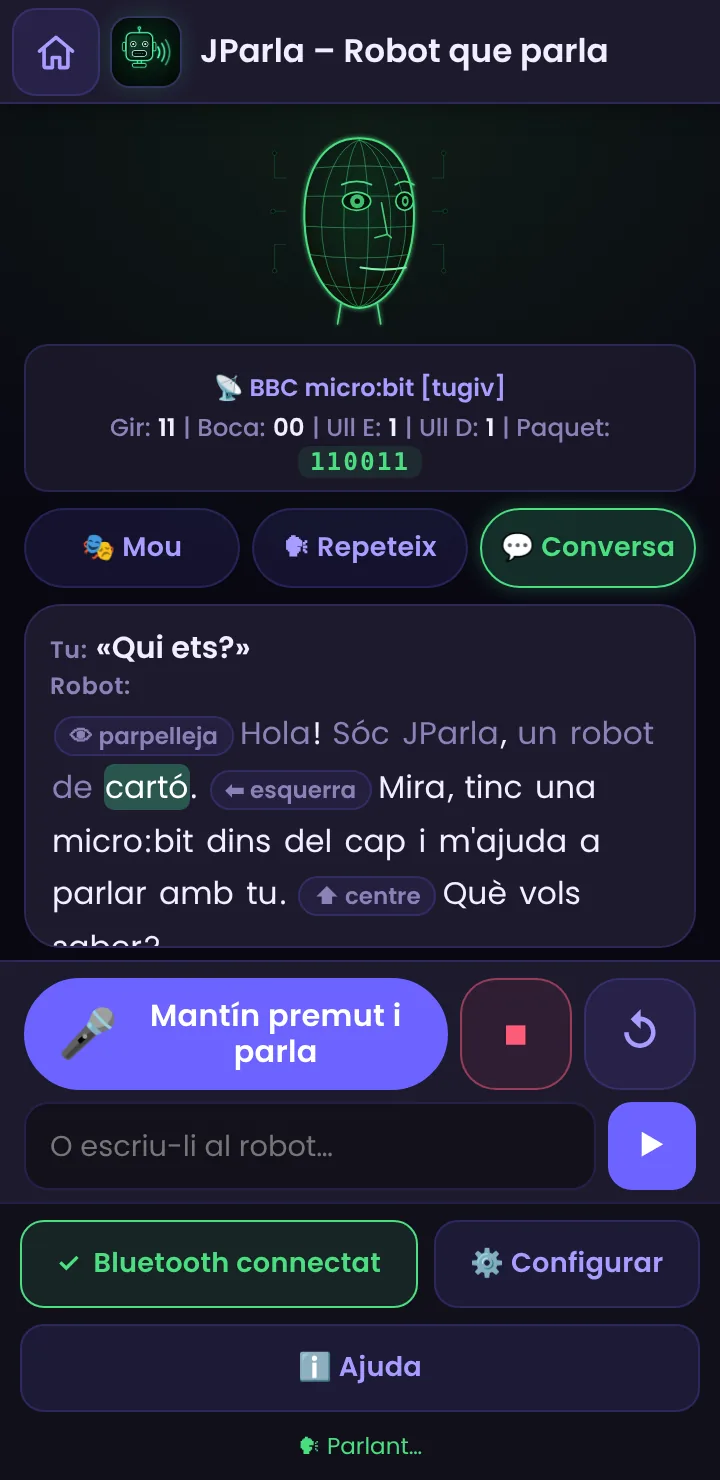
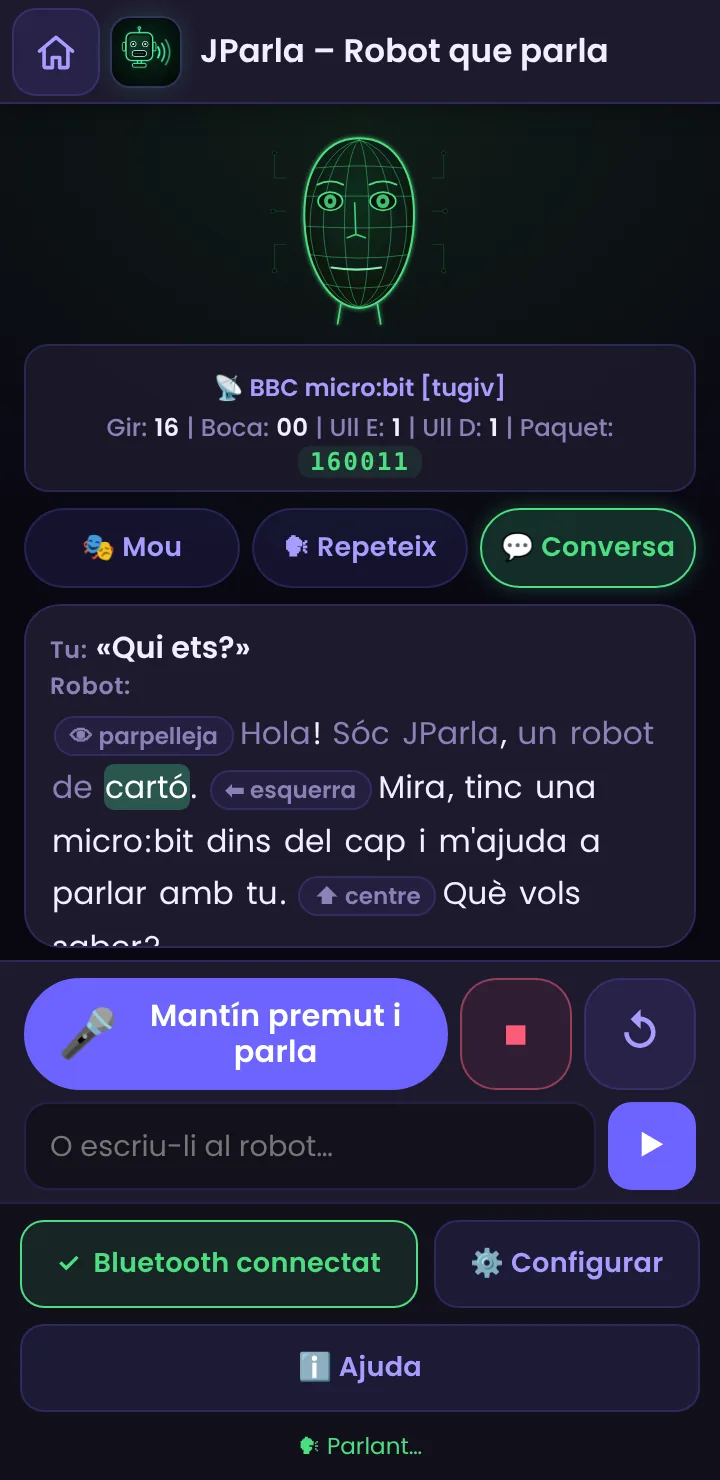
Mejora JPARLA

Changed region(s): [[0.1528, 0.2797, 0.8556, 0.3108], [0.4278, 0.0932, 0.5806, 0.1865]]

diff --git a/jparla/guia.html b/jparla/guia.html
@@ -102,7 +102,7 @@
 <div class="ok"><b>✅ Què s'envia.</b> Només el <b>text</b> de l'ordre, mai l'àudio. La IA només suggereix passos de moviment; l'app els <b>valida i limita</b> (temps i valors) abans de moure res. Sense Internet, només funcionen les regles.</div>
 </section>
 <section class="step" id="paquet"><div class="step-head"><span class="n">9</span><h2>Del que dius al missatge que s'envia</h2></div>
-<p>Cada pas es transforma en un text de <b>6 dígits</b>, igual que a JFace. Per exemple, «obri la boca» a mitges: <span class="msg">150011</span> → <span class="msg">151011</span>. Si dius «mira a l'esquerra, obri la boca i parpelleja», la micro:bit rep una successió de missatges, un darrere l'altre:</p><div class="msgsplit"><div><b style="background:#5C2D91">22</b>gir del cap</div><div><b style="background:#B22222">10</b>boca</div><div><b style="background:#00A4A6">1</b>ull E</div><div><b style="background:#E65722">1</b>ull D</div></div><div class="tw"><table class="t"><tr><th>Camp</th><th>Què significa</th><th>Valors</th></tr><tr><td>Gir (dígits 1–2)</td><td>Gir horitzontal del cap</td><td><b>15</b> = de cara. Cap a un costat puja (fins a ≈ 25) i cap a l'altre baixa (fins a ≈ 5). El recorregut es pot ajustar.</td></tr><tr><td>Boca (dígits 3–4)</td><td>Obertura de la boca</td><td>00 = tancada; fins a l'«obertura màxima» de la configuració (20 per defecte).</td></tr><tr><td>Ull E / Ull D (dígits 5 i 6)</td><td>Cada ull</td><td><b>0</b> tancat · <b>1</b> obert</td></tr></table></div><p>Els missatges s'envien <b>només quan alguna cosa canvia</b>, a un ritme que marca l'<b>interval entre paquets</b> (0,1 s per defecte): el moviment és suau perquè l'app va creant posicions intermèdies.</p><div class="note"><b>ℹ Mateixa xifra que JFace.</b> Gràcies a això, un mateix programa de micro:bit serveix per a controlar el cap amb la cara (JFace) i amb JParla.</div>
+<p>Cada pas es transforma en un text de <b>6 dígits</b>, igual que a JFace. Per exemple, «obri la boca» a mitges: <span class="msg">150011</span> → <span class="msg">151011</span>. Si dius «mira a l'esquerra, obri la boca i parpelleja», la micro:bit rep una successió de missatges, un darrere l'altre:</p><div class="msgsplit"><div><b style="background:#5C2D91">22</b>gir del cap</div><div><b style="background:#B22222">10</b>boca</div><div><b style="background:#00A4A6">1</b>ull E</div><div><b style="background:#E65722">1</b>ull D</div></div><div class="tw"><table class="t"><tr><th>Camp</th><th>Què significa</th><th>Valors</th></tr><tr><td>Gir (dígits 1–2)</td><td>Gir horitzontal del cap</td><td><b>15</b> = de cara. Cap a un costat puja (fins a ≈ 25) i cap a l'altre baixa (fins a ≈ 5). El recorregut es pot ajustar.</td></tr><tr><td>Boca (dígits 3–4)</td><td>Obertura de la boca</td><td>00 = tancada; fins a l'«obertura màxima» de la configuració (10 per defecte: és el màxim que accepta el programa «Cap amb IA» de la micro:bit).</td></tr><tr><td>Ull E / Ull D (dígits 5 i 6)</td><td>Cada ull</td><td><b>0</b> tancat · <b>1</b> obert</td></tr></table></div><p>Els missatges s'envien <b>només quan alguna cosa canvia</b>, a un ritme que marca l'<b>interval entre paquets</b> (0,1 s per defecte): el moviment és suau perquè l'app va creant posicions intermèdies.</p><div class="note"><b>ℹ Mateixa xifra que JFace.</b> Gràcies a això, un mateix programa de micro:bit serveix per a controlar el cap amb la cara (JFace) i amb JParla.</div>
 </section>
 <section class="step" id="sincronia"><div class="step-head"><span class="n">10</span><h2>Com se sincronitza la boca amb la veu</h2></div>
 <p><i>(Mode Repeteix i Conversa.)</i></p>
@@ -123,6 +123,9 @@
 <p>Cada robot és un poc diferent. A <b>Enviament i calibratge</b> :</p>
 <ul><li><b>Recorregut del gir</b> i <b>obertura màxima de la boca</b>: fins on gira el cap i com d'oberta queda la boca. Els botons <b>⬅ ⬆ ➡</b> i <b>👄 Obrir la boca</b> et deixen comprovar-ho.</li><li><b>Invertir l'esquerra i la dreta</b>: si el cap gira cap a l'altre costat del que apareix a la pantalla.</li><li><b>Interval entre paquets</b>: cada quant s'envia un canvi. Un valor baix (0,03–0,1 s) fa la boca més precisa; si el servo tremola o el Bluetooth es satura, puja'l.</li></ul>
 <div class="figrow"><figure class="fig phone"><img src="guia-img/jparla-10-config-calibratge.webp" alt="Enviament i calibratge"><figcaption>Interval, recorregut del gir, boca màxima i botons de prova.</figcaption></figure></div>
+<div class="warn"><b>⚠ La boca s'ha de calibrar amb el programa de la micro:bit.</b> El programa «Cap amb IA» (el de JFace) <b>només mou la boca si el valor és de 0 a 10</b>; si rep un 15 o un 20, l'ignora i la boca es queda com estava. Per això l'<b>«Obertura màxima»</b> ha de ser <b>10</b> (és el valor per defecte). Si vols més recorregut, canvia el <b>10</b> del programa (blocs «mapa»), no només el de l'app.</div>
+<h3>Si la boca no queda ben definida</h3>
+<ol><li>Comprova que l'«Obertura màxima» és 10 i prem <b>👄 Prova de síl·labes</b>: el robot obri i tanca la boca sense veu, com si parlara. Si ací ja va a salts, el límit és el servo.</li><li>En parlar, l'app envia com a mínim un paquet cada <b>50 ms</b> encara que l'interval siga més alt (si no, una obertura de ~0,1 s no arribaria a enviar-se).</li><li>Si el servo és lent, <b>redueix l'angle</b> de la boca al programa (p. ex. de 0–75° a 0–55°): amb menys camí, arriba i torna a temps.</li><li>Si la boca s'obri <b>després</b> de sentir la veu, puja <b>«Avançar la boca»</b> (100–200 ms). Si va per davant, deixa-ho a 0 i baixa el «Ritme de la boca».</li><li>Prova també <b>«Boca mig oberta entre les síl·labes»</b>: dins d'una paraula la boca no es tanca del tot.</li></ol>
 <div class="warn"><b>⚠ Si gira al revés.</b> Prem «⬅ Esquerra». Si el cap es mou cap a la dreta, marca <b>«Invertir l'esquerra i la dreta del gir»</b>. L'esquerra de JParla és l'esquerra del cap (la de la pantalla, com un mirall).</div>
 <div class="warn"><b>⚠ Servos.</b> En <b>Repeteix</b> i <b>Conversa</b> la boca es mou ràpid (una obertura per síl·laba); en <b>Mou</b> va més a poc a poc. Si el servo de la boca vibra o s'escalfa, redueix l'«Obertura màxima» o puja l'interval.</div>
 </section>
@@ -142,7 +145,7 @@
 <tr><td>«No t'he sentit» / «No es pot usar el micròfon»</td><td>No has donat permís (o has deixat anar el botó massa prompte).</td><td>Mantín premut mentre parles; cadenat de l'adreça → Permisos → Micròfon.</td></tr>
 <tr><td>«Per a conversar cal la clau de Google»</td><td>No hi ha clau guardada.</td><td>Configuració → IA de Google. El mode Repeteix no la necessita.</td></tr>
 <tr><td>«La IA de Google no ha respost (quota esgotada)»</td><td>S'ha superat el límit gratuït.</td><td>Espera una estona, tria <i>gemini-3.5-flash-lite</i> o usa una altra clau.</td></tr>
-<tr><td>El robot no es mou però sí el cap virtual</td><td>Falta connectar la micro:bit.</td><td>Prem <b>Connectar Bluetooth</b> i comprova que el programa és el de JFace (<a href="../jface/guia.html#connecta">guia de JFace</a>); en iPhone/iPad no funciona.</td></tr><tr><td>No m'entén una frase (Mou)</td><td>No té cap regla per a eixa frase.</td><td>Mira els exemples, digues-la més senzilla o activa la IA de Google.</td></tr><tr><td>Diu «el cap només pot girar…»</td><td>Has demanat assentir o mirar amunt/avall.</td><td>No es pot: el cap només gira, obri la boca i els ulls.</td></tr><tr><td>«La veu del navegador necessita Internet»</td><td>A Chrome, el reconeixement el fa Google.</td><td>Connecta't, escriu l'ordre o usa Whisper local.</td></tr><tr><td>Whisper no es descarrega</td><td>No hi ha Internet, no hi ha espai o el motor no està inclòs.</td><td>Prova amb Wi-Fi i espai lliure; l'app et diu què ha passat.</td></tr><tr><td>El cap gira al revés</td><td>El teu muntatge és el contrari.</td><td>Marca «Invertir l'esquerra i la dreta del gir».</td></tr></table></div>
+<tr><td>El robot no es mou però sí el cap virtual</td><td>Falta connectar la micro:bit.</td><td>Prem <b>Connectar Bluetooth</b> i comprova que el programa és el de JFace (<a href="../jface/guia.html#connecta">guia de JFace</a>); en iPhone/iPad no funciona.</td></tr><tr><td>La boca no s'obri amb algunes vocals (a, e, o) o va a salts</td><td>L'«Obertura màxima» és més gran que 10 i la micro:bit ignora els valors alts, o el servo és lent.</td><td>Posa l'«Obertura màxima» a 10, prova «👄 Prova de síl·labes» i mira l'apartat «Calibra el robot».</td></tr><tr><td>No m'entén una frase (Mou)</td><td>No té cap regla per a eixa frase.</td><td>Mira els exemples, digues-la més senzilla o activa la IA de Google.</td></tr><tr><td>Diu «el cap només pot girar…»</td><td>Has demanat assentir o mirar amunt/avall.</td><td>No es pot: el cap només gira, obri la boca i els ulls.</td></tr><tr><td>«La veu del navegador necessita Internet»</td><td>A Chrome, el reconeixement el fa Google.</td><td>Connecta't, escriu l'ordre o usa Whisper local.</td></tr><tr><td>Whisper no es descarrega</td><td>No hi ha Internet, no hi ha espai o el motor no està inclòs.</td><td>Prova amb Wi-Fi i espai lliure; l'app et diu què ha passat.</td></tr><tr><td>El cap gira al revés</td><td>El teu muntatge és el contrari.</td><td>Marca «Invertir l'esquerra i la dreta del gir».</td></tr></table></div>
 </section>
 
   <div class="nav2"><a href="index.html">← Tornar a JParla</a><a href="../index.html"><svg class="ico" viewBox="0 0 24 24" width="20" height="20" fill="none" stroke="currentColor" stroke-width="2" stroke-linecap="round" stroke-linejoin="round" aria-hidden="true" focusable="false"><path d="M3 11.5 12 4l9 7.5"/><path d="M5.5 10v9.5a1 1 0 0 0 1 1H10v-5.5h4v5.5h3.5a1 1 0 0 0 1-1V10"/></svg> Totes les apps</a></div>

diff --git a/jparla/js/script.js b/jparla/js/script.js
@@ -17,13 +17,13 @@
   const DEF = {
     lang: 'auto', voice: '', rate: 10, pitch: 10, robotic: false, talk: 'hold',
     mouthRate: 100, learn: true, move: 'normal', blink: true,
-    interval: 8, yawHalf: 10, mouthMax: 20, invert: false,
+    interval: 8, yawHalf: 10, mouthMax: 10, invert: false, mouthHold: false, mouthLead: 0, v: 2,
     gmodel: 'gemini-3.5-flash-lite', preset: 'friendly', persona: '', mode: 'say',
     engine: 'web', wmodel: 'base', gem: false
   };
   const cfg = Object.assign({}, DEF);
-  let firstRun = true;
-  try { const raw = localStorage.getItem(CFG_KEY); if (raw) { firstRun = false; Object.assign(cfg, JSON.parse(raw)); } } catch (e) {}
+  let firstRun = true, storedV = 0;
+  try { const raw = localStorage.getItem(CFG_KEY); if (raw) { firstRun = false; const o = JSON.parse(raw); storedV = o.v || 0; Object.assign(cfg, o); } } catch (e) {}
   // Qui venia de JVeu (app fusionada en esta): es recuperen els seus ajustos i s'obri en el mode «Mou»
   if (firstRun) {
     try {
@@ -37,6 +37,8 @@
     } catch (e) {}
     if (!STT.webSupported() && STT.whisperSupported()) cfg.engine = 'whisper';
   }
+  // v2: el programa «Cap amb IA» (i el de JFace) només accepta boca 0…10; amb 20 s'ignoraven les obertures grans (a, e, o)
+  if (storedV < 2) { if (cfg.mouthMax === 20) cfg.mouthMax = 10; cfg.v = 2; try { localStorage.setItem(CFG_KEY, JSON.stringify(cfg)); } catch (e) {} }
   if (!['move', 'say', 'chat'].includes(cfg.mode)) cfg.mode = 'say';
   const saveCfg = () => { try { localStorage.setItem(CFG_KEY, JSON.stringify(cfg)); } catch (e) {} };
   let kMap = {};
@@ -233,6 +235,7 @@
         const res = await puppet.speak(p.text, {
           lang, voice, rate: cfg.rate / 10, pitch: cfg.pitch / 10, robotic: cfg.robotic,
           k: cfg.learn ? (kMap[key] || 1) : 1, mouthRate: cfg.mouthRate / 100,
+          lead: cfg.mouthLead / 1000, floor: cfg.mouthHold ? 0.3 : 0,
           onWord: (w) => { if (my !== runToken || !p.els) return; p.els.forEach((e, n) => { e.classList.toggle('now', n === w); e.classList.toggle('said', n < w); }); keepVisible(p.els[w]); }
         });
         if (p.els) p.els.forEach((e) => { e.classList.remove('now'); e.classList.add('said'); });
@@ -476,6 +479,7 @@
     $('intervalLbl').textContent = _t('jp.cfg.interval', { n: fmtNum(cfg.interval / 100, 2) });
     $('yawHalfLbl').textContent = _t('jp.cfg.yawhalf', { n: cfg.yawHalf });
     $('mouthMaxLbl').textContent = _t('jp.cfg.mouthmax', { n: cfg.mouthMax });
+    $('mouthLeadLbl').textContent = _t('jp.cfg.mouthlead', { n: cfg.mouthLead });
     setMic(uiState); refreshKeyState();
   }
   function syncPersona() {
@@ -488,7 +492,7 @@
     $('cfgLang').value = cfg.lang; $('cfgTalk').value = cfg.talk; $('cfgRobotic').checked = cfg.robotic;
     $('cfgRate').value = cfg.rate; $('cfgPitch').value = cfg.pitch; $('cfgMouthRate').value = cfg.mouthRate;
     $('cfgLearn').checked = cfg.learn; $('cfgMove').value = cfg.move; $('cfgBlink').checked = cfg.blink;
-    $('intervalSlider').value = cfg.interval; $('yawHalf').value = cfg.yawHalf; $('mouthMax').value = cfg.mouthMax;
+    $('intervalSlider').value = cfg.interval; $('yawHalf').value = cfg.yawHalf; $('mouthMax').value = cfg.mouthMax; $('mouthLead').value = cfg.mouthLead; $('cfgHold').checked = cfg.mouthHold;
     $('cfgInvert').checked = cfg.invert; $('cfgGModel').value = cfg.gmodel; $('cfgPreset').value = cfg.preset;
     $('cfgEngine').value = cfg.engine; $('cfgWModel').value = cfg.wmodel; $('cfgGem').checked = cfg.gem;
     syncBoxes(); fillVoices(); syncPersona(); refreshLabels();
@@ -499,12 +503,12 @@
   bind('cfgLang', 'lang', null, () => { fillVoices(); toIdle(); });
   bind('cfgVoice', 'voice');
   bind('cfgTalk', 'talk', null, toIdle);
-  bind('cfgRobotic', 'robotic', (e) => e.checked); bind('cfgLearn', 'learn', (e) => e.checked); bind('cfgBlink', 'blink', (e) => e.checked);
+  bind('cfgRobotic', 'robotic', (e) => e.checked); bind('cfgLearn', 'learn', (e) => e.checked); bind('cfgBlink', 'blink', (e) => e.checked); bind('cfgHold', 'mouthHold', (e) => e.checked);
   bind('cfgMove', 'move'); bind('cfgInvert', 'invert', (e) => e.checked); bind('cfgGModel', 'gmodel');
   bind('cfgPreset', 'preset', null, syncPersona);
   bind('cfgEngine', 'engine'); bind('cfgWModel', 'wmodel', null, refreshWhisperState); bind('cfgGem', 'gem', (e) => e.checked);
   $('whBtn').addEventListener('click', async () => { if (await ensureWhisper()) toIdle(); });
-  [['cfgRate', 'rate'], ['cfgPitch', 'pitch'], ['cfgMouthRate', 'mouthRate'], ['intervalSlider', 'interval'], ['yawHalf', 'yawHalf'], ['mouthMax', 'mouthMax']]
+  [['cfgRate', 'rate'], ['cfgPitch', 'pitch'], ['cfgMouthRate', 'mouthRate'], ['intervalSlider', 'interval'], ['yawHalf', 'yawHalf'], ['mouthMax', 'mouthMax'], ['mouthLead', 'mouthLead']]
     .forEach(([id, key]) => $(id).addEventListener('input', () => { cfg[key] = parseInt($(id).value, 10); saveCfg(); refreshLabels(); }));
   $('cfgPersona').addEventListener('input', () => { if (cfg.preset === 'custom') { cfg.persona = $('cfgPersona').value.slice(0, 600); saveCfg(); } });
   $('cfgKey').addEventListener('change', () => { CHAT.setKey($('cfgKey').value); $('cfgKey').value = ''; refreshKeyState(); });
@@ -513,6 +517,13 @@
   $('voiceTest').addEventListener('click', () => { $('config-layer').style.display = 'none'; sayText(_t('jp.test.text')); });
   const cal = (y) => { runToken++; setSpeaking(false); puppet.stop(); puppet.setPose({ yaw: y, mouth: 0 }, true); };
   $('calL').addEventListener('click', () => cal(1)); $('calC').addEventListener('click', () => cal(0)); $('calR').addEventListener('click', () => cal(-1));
+  // Prova de síl·labes (sense veu): obri i tanca la boca com al parlar, a l'ona del «Ritme de la boca». Serveix per a vore si el servo arriba.
+  $('calSyl').addEventListener('click', () => {
+    runToken++; setSpeaking(false); puppet.stop();
+    const syl = 0.2 / (cfg.mouthRate / 100), lv = [1, 0.75, 0.5, 0.75, 1, 0.5, 1, 0.75, 0.5, 0.75, 1, 0.5], steps = [];
+    lv.forEach((l, i) => { steps.push({ mouth: l, ms: Math.round(syl * 580) }); steps.push({ mouth: i % 3 === 2 || i === lv.length - 1 ? 0 : cfg.mouthHold ? l * 0.3 : 0, ms: Math.round(syl * 420) }); });
+    puppet.runSteps(steps, { fast: true }).then(() => puppet.setPose({ mouth: 0 }, true));
+  });
   $('calMouth').addEventListener('click', () => { runToken++; setSpeaking(false); puppet.stop(); puppet.setPose({ mouth: 1 }, true); setTimeout(() => puppet.setPose({ mouth: 0 }, true), 900); });
 
   // Capes i botons

diff --git a/jparla/js/i18n.js b/jparla/js/i18n.js
@@ -74,6 +74,11 @@ PIAR_I18N.add({
     "jp.cfg.cal_center": "⬆ Centre",
     "jp.cfg.cal_right": "Dreta ➡",
     "jp.cfg.cal_mouth": "👄 Obrir la boca",
+    "jp.cfg.hold": "Boca mig oberta entre les síl·labes d'una paraula (més definida)",
+    "jp.cfg.mouthlead": "Avançar la boca: {n} ms",
+    "jp.cfg.lead_note": "Si la boca s'obri després de sonar la veu, puja'l (compensa el Bluetooth i el servo).",
+    "jp.cfg.mouthmax_note": "Ha de coincidir amb el programa de la micro:bit: el de «Cap amb IA» i JFace només accepta boca de 0 a 10 (amb més, ignora el valor).",
+    "jp.cfg.cal_syl": "👄 Prova de síl·labes",
     "jp.cfg.gem_key": "Clau de Google",
     "jp.cfg.gem_key_ph": "AIza… (enganxa-la ací)",
     "jp.cfg.gem_saved": "✅ Hi ha una clau guardada en este dispositiu.",
@@ -156,7 +161,7 @@ PIAR_I18N.add({
     "jp.cfg.lang": "Idioma (veu, micròfon i IA)",
     "jp.cfg.move": "👄 Boca i moviment en parlar",
     "jp.cfg.ai": "✨ IA de Google (Conversa i frases lliures)",
-    "jp.cfg.interval_note": "Cada quants segons s'envia un canvi a la micro:bit. Un valor baix (0,05–0,1 s) fa la boca més precisa; si el servo tremola o el Bluetooth es satura, puja'l (fins a 0,5 s).",
+    "jp.cfg.interval_note": "Cada quants segons s'envia un canvi a la micro:bit. Un valor baix (0,03–0,1 s) fa la boca més precisa; si el servo tremola o el Bluetooth es satura, puja'l (fins a 0,5 s).",
     "jp.cfg.gem_note": "Només s'envia el TEXT (de la conversa o de l'ordre), mai l'àudio. Amb una clau gratuïta, Google pot usar el text per a millorar els seus productes. La clau només viu en este dispositiu (és la mateixa de Què veuen de tu). Que ningú escriga dades personals. Gemini no controla res: només proposa, i l'app valida i limita les ordres i els passos abans d'enviar-los.",
     "jp.help.p1": "<strong>JParla</strong> mou i fa parlar el robot de la micro:bit (el de <strong>JFace</strong>). Pots <em>manar-li moviments</em> amb la veu o el text, o <em>fer-lo parlar</em>: el dispositiu llig el text en veu alta i l'app mou la boca a cada <strong>síl·laba</strong> i, de tant en tant, gira el cap i parpelleja. Envia les dades per Bluetooth amb el <strong>mateix paquet de 6 dígits que JFace</strong>, així que no cal canviar el programa de la micro:bit.",
     "jp.help.modes": "<strong>Tres modes</strong> (botons de dalt): <em>🎭 Mou</em> (diguis una ordre i el cap la fa), <em>🗣 Repeteix</em> (el robot diu el que escrigues o dius) i <em>💬 Conversa</em> (la IA de Google contesta amb la personalitat que triïs i el robot ho diu; cal una clau gratuïta).",
@@ -319,6 +324,11 @@ PIAR_I18N.add({
     "jp.cfg.cal_center": "⬆ Centro",
     "jp.cfg.cal_right": "Derecha ➡",
     "jp.cfg.cal_mouth": "👄 Abrir la boca",
+    "jp.cfg.hold": "Boca medio abierta entre las sílabas de una palabra (más definida)",
+    "jp.cfg.mouthlead": "Adelantar la boca: {n} ms",
+    "jp.cfg.lead_note": "Si la boca se abre después de sonar la voz, súbelo (compensa el Bluetooth y el servo).",
+    "jp.cfg.mouthmax_note": "Debe coincidir con el programa de la micro:bit: el de «Cap amb IA» y JFace solo acepta boca de 0 a 10 (con más, ignora el valor).",
+    "jp.cfg.cal_syl": "👄 Prueba de sílabas",
     "jp.cfg.gem_key": "Clave de Google",
     "jp.cfg.gem_key_ph": "AIza… (pégala aquí)",
     "jp.cfg.gem_saved": "✅ Hay una clave guardada en este dispositivo.",
@@ -564,6 +574,11 @@ PIAR_I18N.add({
     "jp.cfg.cal_center": "⬆ Centre",
     "jp.cfg.cal_right": "Right ➡",
     "jp.cfg.cal_mouth": "👄 Open the mouth",
+    "jp.cfg.hold": "Mouth half open between the syllables of a word (clearer)",
+    "jp.cfg.mouthlead": "Mouth lead: {n} ms",
+    "jp.cfg.lead_note": "If the mouth opens after the voice, raise it (it compensates for Bluetooth and the servo).",
+    "jp.cfg.mouthmax_note": "It must match the micro:bit program: «Cap amb IA» and JFace only accept mouth 0 to 10 (with more, the value is ignored).",
+    "jp.cfg.cal_syl": "👄 Syllable test",
     "jp.cfg.gem_key": "Google key",
     "jp.cfg.gem_key_ph": "AIza… (paste it here)",
     "jp.cfg.gem_saved": "✅ A key is saved on this device.",

diff --git a/jparla/js/puppet.js b/jparla/js/puppet.js
@@ -2,7 +2,7 @@
 //  puppet.js – JParla: mou el cap (gir, boca, ulls) i fa parlar el dispositiu
 //
 //  const P = JParlaPuppet.create({ send, onPose, onPacket, getCal, getInterval, getMove, getBlink });
-//  P.speak(text, { lang, voice, rate, pitch, robotic, k, mouthRate, onWord(i), onStart })
+//  P.speak(text, { lang, voice, rate, pitch, robotic, k, mouthRate, lead (s: avança la boca), floor (0…0.6: boca mig oberta entre síl·labes), onWord(i), onStart })
 //        → Promise<{ status:'done'|'stopped'|'error', code, learn }>      (un tros de text; el boca va per síl·labes)
 //  P.runSteps(steps, { slow, onStep(i, step) })  → Promise<'done'|'stopped'>
 //        passos { yaw|dyaw, mouth|dmouth, eyeL, eyeR, ms }: ordres [entre claudàtors] i moviments del mode «Mou».
@@ -19,7 +19,7 @@
   'use strict';
   const clamp = (v, a, b) => Math.max(a, Math.min(b, v));
   const YAW_SPEED = 2.6;                 // unitats normalitzades per segon
-  const MOUTH_UP = 20, MOUTH_DOWN = 16;  // la boca s'obri i es tanca ràpid (com un clap), però no instantàniament
+  const MOUTH_UP = 60, MOUTH_DOWN = 60;  // en parlar, la boca va «a clap»: el límit de velocitat real és el del servo. Una rampa de programari només envia valors intermedis ja vells.
   const MOUTH_SLOW = 3.6;                // mode «Mou»: la boca avança amb suavitat perquè el servo no patisca
   const WEB_LANG = { ca: 'ca-ES', es: 'es-ES', en: 'en-US' };
   const MOVE = { none: [0, 0], low: [0.3, 0.3], normal: [0.55, 0.45], lively: [0.9, 0.65] };   // [probabilitat per paraula, amplitud]
@@ -36,7 +36,10 @@
     let timer = null, lastTick = performance.now();
 
     const sleep = (ms) => new Promise((res) => { const t = setTimeout(() => { wake = null; res(); }, ms); wake = () => { clearTimeout(t); wake = null; res(); }; });
-    const interval = () => clamp((opt.getInterval && opt.getInterval()) || 80, 30, 500);
+    // En parlar (o en la prova de síl·labes) l'interval no passa de 50 ms: a 80 ms o més, una obertura de ~110 ms no arriba a enviar-se completa
+    const SPEECH_INTERVAL = 50;
+    let fastRun = false;
+    const interval = () => { const v = clamp((opt.getInterval && opt.getInterval()) || 80, 30, 500); return (mouthSrc || fastRun) ? Math.min(v, SPEECH_INTERVAL) : v; };
 
     function emit(force) {
       const eyes = eyesForced || (blinkUntil > performance.now() ? { l: 0, r: 0 } : null);
@@ -108,7 +111,7 @@
             const t = (now - t0) / 1000;
             const w = J.wordAt(tl, t);
             if (w !== lastWord && w >= 0) { lastWord = w; wander(); if (o.onWord) o.onWord(w, tl); }
-            return J.mouthAt(tl, t);
+            return J.mouthAt(tl, t + (o.lead || 0), o.floor || 0);
           };
           if (o.onStart) o.onStart(tl);
           watch = setTimeout(() => { try { synth.cancel(); } catch (e) {} finish({ status: 'done', timeout: true }); }, (tl.total * 4 + 8) * 1000);
@@ -147,7 +150,7 @@
       const my = ++runId;
       if (cur) { cur.cancel(); }
       if (wake) wake();
-      mouthSlow = !!o.slow;
+      mouthSlow = !!o.slow; fastRun = !!o.fast;
       for (let i = 0; i < steps.length; i++) {
         if (my !== runId) return 'stopped';
         const s = steps[i];
@@ -164,12 +167,12 @@
         if (my !== runId) return 'stopped';
         await sleep(Math.max(0, s.ms || 0));
       }
-      if (my === runId) mouthSlow = false;
+      if (my === runId) { mouthSlow = false; fastRun = false; }
       return my === runId ? 'done' : 'stopped';
     }
 
     function stop() {
-      runId++; if (wake) wake(); mouthSlow = false;
+      runId++; if (wake) wake(); mouthSlow = false; fastRun = false;
       if (cur) cur.cancel(); else { try { root.speechSynthesis && root.speechSynthesis.cancel(); } catch (e) {} }
       mouthSrc = null; tgt.mouth = 0;
     }

diff --git a/jparla/index.html b/jparla/index.html
@@ -177,6 +177,12 @@
           <option value="normal" data-i18n="jp.cfg.move_normal">Normal</option>
           <option value="lively" data-i18n="jp.cfg.move_lively">Molt</option>
         </select>
+        <label class="check"><input type="checkbox" id="cfgHold"> <span data-i18n="jp.cfg.hold">Boca mig oberta entre les síl·labes d'una paraula (més definida)</span></label>
+        <div class="interval-control">
+          <label for="mouthLead" id="mouthLeadLbl">Avançar la boca: 0 ms</label>
+          <input type="range" id="mouthLead" min="0" max="300" value="0" step="10">
+        </div>
+        <p class="config-note" data-i18n="jp.cfg.lead_note">Si la boca s'obri després de sonar la veu, puja'l (compensa el Bluetooth i el servo).</p>
         <label class="check"><input type="checkbox" id="cfgBlink"> <span data-i18n="jp.cfg.blink">Parpellejar mentre parla</span></label>
       </div>
 
@@ -193,8 +199,9 @@
         </div>
         <div class="interval-control">
           <label for="mouthMax" id="mouthMaxLbl">Obertura màxima de la boca: 20</label>
-          <input type="range" id="mouthMax" min="8" max="40" value="20" step="1">
+          <input type="range" id="mouthMax" min="4" max="40" value="10" step="1">
         </div>
+        <p class="config-note" data-i18n="jp.cfg.mouthmax_note">Ha de coincidir amb el programa de la micro:bit: el de «Cap amb IA» i JFace només accepta boca de 0 a 10 (amb més, ignora el valor).</p>
         <label class="check"><input type="checkbox" id="cfgInvert"> <span data-i18n="jp.cfg.invert">Invertir l'esquerra i la dreta del gir</span></label>
         <p class="config-note" data-i18n="jp.cfg.cal_note">Com JFace, el gir 15 és «de cara».</p>
         <div class="cal-row">
@@ -204,6 +211,7 @@
         </div>
         <div class="cal-row">
           <button type="button" class="btn" id="calMouth" data-i18n="jp.cfg.cal_mouth">👄 Obrir la boca</button>
+          <button type="button" class="btn" id="calSyl" data-i18n="jp.cfg.cal_syl">👄 Prova de síl·labes</button>
         </div>
       </div>
 

diff --git a/jparla/js/core.js b/jparla/js/core.js
@@ -166,12 +166,16 @@
   }
 
   // Obertura de la boca (0…1) en l'instant t (s des de l'inici del tros). Cerca binària.
-  function mouthAt(tl, t) {
+  // «floor» (0…0.6): entre dues síl·labes de la MATEIXA paraula la boca no es tanca del tot, només baixa fins a floor·nivell
+  // (el servo recorre menys i la boca queda més definida); en acabar la paraula o en una pausa sí que es tanca.
+  function mouthAt(tl, t, floor) {
     const S = tl.sylls; if (!S.length || t < S[0].t) return 0;
     let a = 0, b = S.length - 1;
     while (a < b) { const mid = (a + b + 1) >> 1; if (S[mid].t <= t) a = mid; else b = mid - 1; }
     const s = S[a];
-    return t < s.t + s.open ? s.level : 0;
+    if (t < s.t + s.open) return s.level;
+    const nx = S[a + 1];
+    return floor > 0 && nx && nx.w === s.w ? Math.min(s.level, nx.level) * clamp(floor, 0, 0.6) : 0;
   }
   function wordAt(tl, t) {
     const W = tl.words; if (!W.length || t < W[0].t) return -1;
@@ -209,7 +213,7 @@
   }
 
   // ───────────── Paquet «yyMMEE» ─────────────
-  const DEF_CAL = { yawC: 15, yawHalf: 10, mouthMax: 20, invert: false };
+  const DEF_CAL = { yawC: 15, yawHalf: 10, mouthMax: 10, invert: false };   // mouthMax 10: el programa «Cap amb IA» (i JFace) només accepta boca 0…10
   const NEUTRAL = { yaw: 0, mouth: 0, eyeL: 1, eyeR: 1 };
   function toPacket(p, cal) {
     cal = Object.assign({}, DEF_CAL, cal || {});

diff --git a/control/auth.js b/control/auth.js
@@ -1,2 +1,2 @@
 // Generat per tools/control-password.py. Conté només el «hash» de la contrasenya (no la contrasenya).
[2 lines of base64/hex data omitted]

diff --git a/sw.js b/sw.js
@@ -10,7 +10,7 @@
 
    La versió la posa tools/build-pwa.py. No edites la línia de VERSION a mà.
    ============================================================ */
-const VERSION = '740fd4b0903a';
+const VERSION = '207b882b84c0';
 const SHELL_CACHE  = 'piar-shell-' + VERSION;
 const VENDOR_CACHE = 'piar-vendor-v1';
 const MODEL_CACHE  = 'piar-models-v1';

diff --git a/jparla/README.md b/jparla/README.md
@@ -19,7 +19,7 @@ veu (navegador o Whisper local) / text
         └─ 💬 Conversa → Gemini → text + [ordres] → igual que Repeteix ─────────────────────┘                                  i cap virtual en pantalla
 ```
 
-- **Paquet**: `yyMMEE` = gir (2 dígits, 15 = de cara), boca (2), ull E (0/1), ull D (0/1). Només s'envia quan canvia.
+- **Paquet**: `yyMMEE` = gir (2 dígits, 15 = de cara), boca (2), ull E (0/1), ull D (0/1). Només s'envia quan canvia. **La boca ha de ser 0…10**: el programa «Cap amb IA» ignora els valors > 10 (per defecte `mouthMax` = 10; la configuració antiga amb 20 es migra).
 - **Ordres entre claudàtors** (no es pronuncien): `[parpelleja] [guinya_esquerra] [guinya_dreta] [esquerra] [dreta] [centre] [nega] [sorpresa] [riu] [pensa] [dorm] [desperta] [pausa]`, amb àlies en valencià, castellà i anglés. La IA només pot usar esta llista blanca (`JParla.sanitizeReply` treu Markdown, emojis, adreces i ordres desconegudes, i limita a 6 ordres i 600 caràcters).
 - **Clau de Google**: la mateixa que *Què veuen de tu* (`localStorage['qv.gk.v1']`). Només s'envia **text**, mai àudio. En **Mou**, la IA només es consulta si l'actives i les regles no entenen la frase; l'eixida es valida amb `JMove.sanitize`.
 - **Ajustos**: `localStorage['jparla.cfg.v1']`. La primera vegada, si hi ha ajustos de l'antiga JVeu (`jveu.cfg.v1`), es migren i s'obri en el mode Mou.
@@ -32,6 +32,8 @@ Les veus d'Android (i les de xarxa de Chrome) no avisen paraula a paraula, així
 2. `JParla.timeline()` calcula quan cau cada síl·laba amb una durada base per idioma, la velocitat de la veu, el control «Ritme de la boca» i una pausa en la puntuació.
 3. En acabar cada tros, `puppet.js` compara la durada real amb la prevista i ajusta un factor `k` per veu i idioma (`localStorage['jparla.k.v1']`) ⇒ la boca s'adapta en 2–3 frases.
 4. Si el navegador sí dona `boundary` (escriptori), la línia de temps es resincronitza amb eixos esdeveniments i no s'aprèn.
+
+En parlar, la boca va «a clap» (sense rampa de programari: només enviava valors intermedis ja vells) i l'interval entre paquets no passa de 50 ms. Opcions: «Avançar la boca» (ms, compensa Bluetooth i servo) i «Boca mig oberta entre síl·labes» (`mouthAt(tl,t,floor)`). El botó «👄 Prova de síl·labes» obri i tanca la boca sense veu per a calibrar el servo.
 
 En el mode **Mou** la boca avança més a poc a poc (3,6 unitats/s) perquè el servo no patisca.
 
